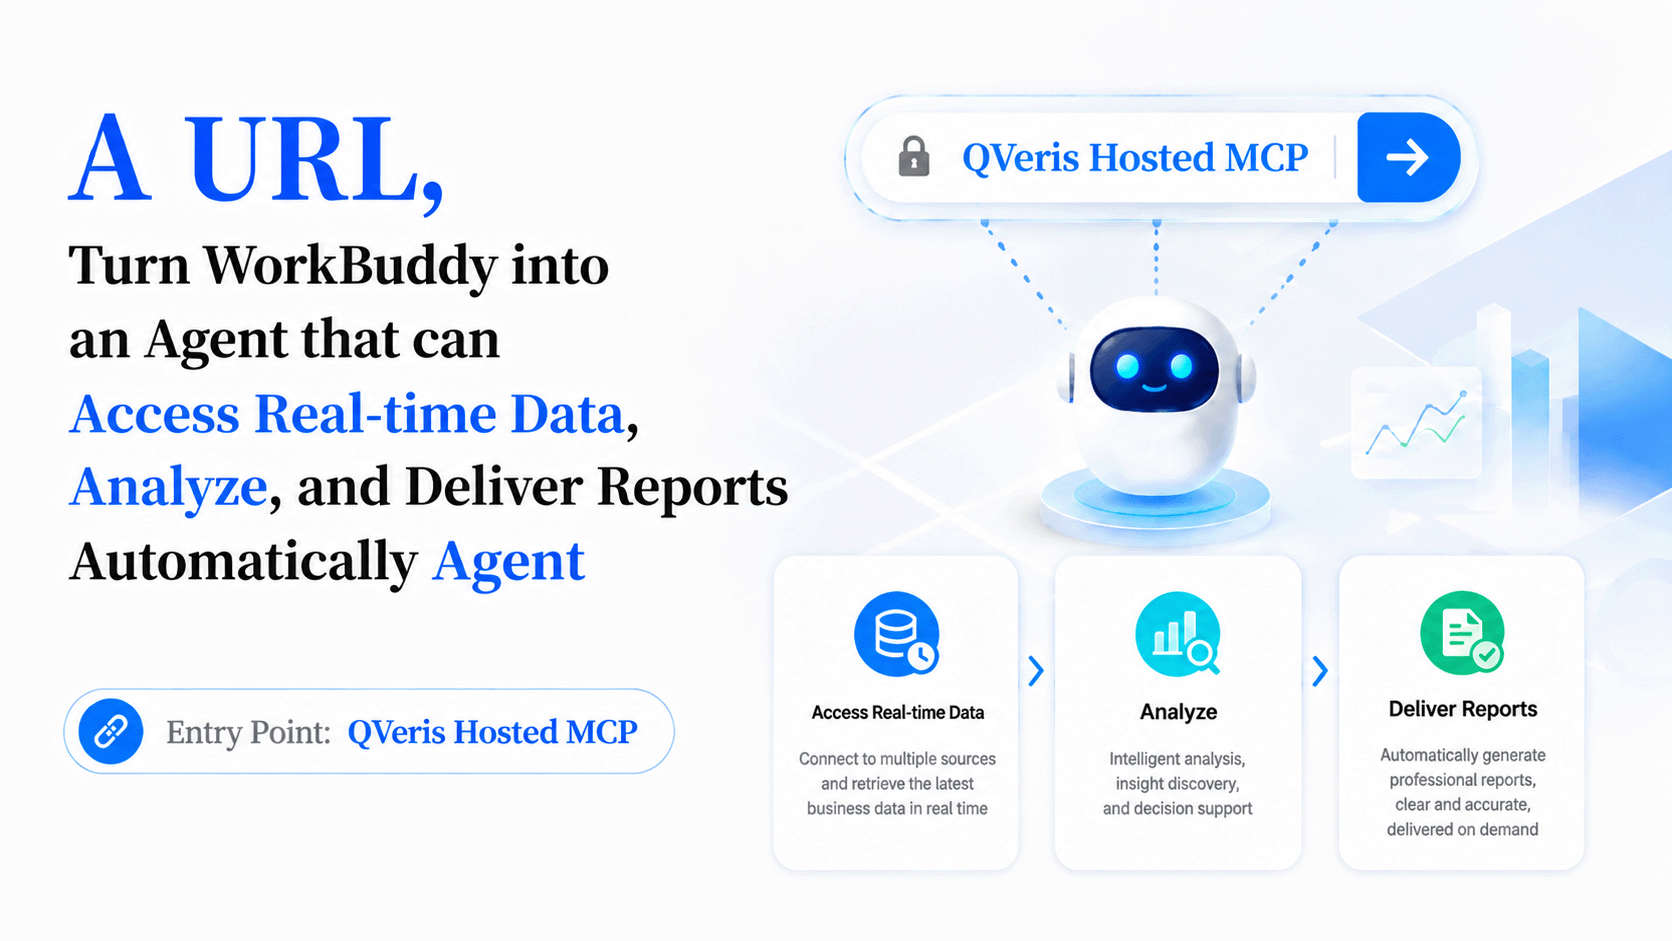
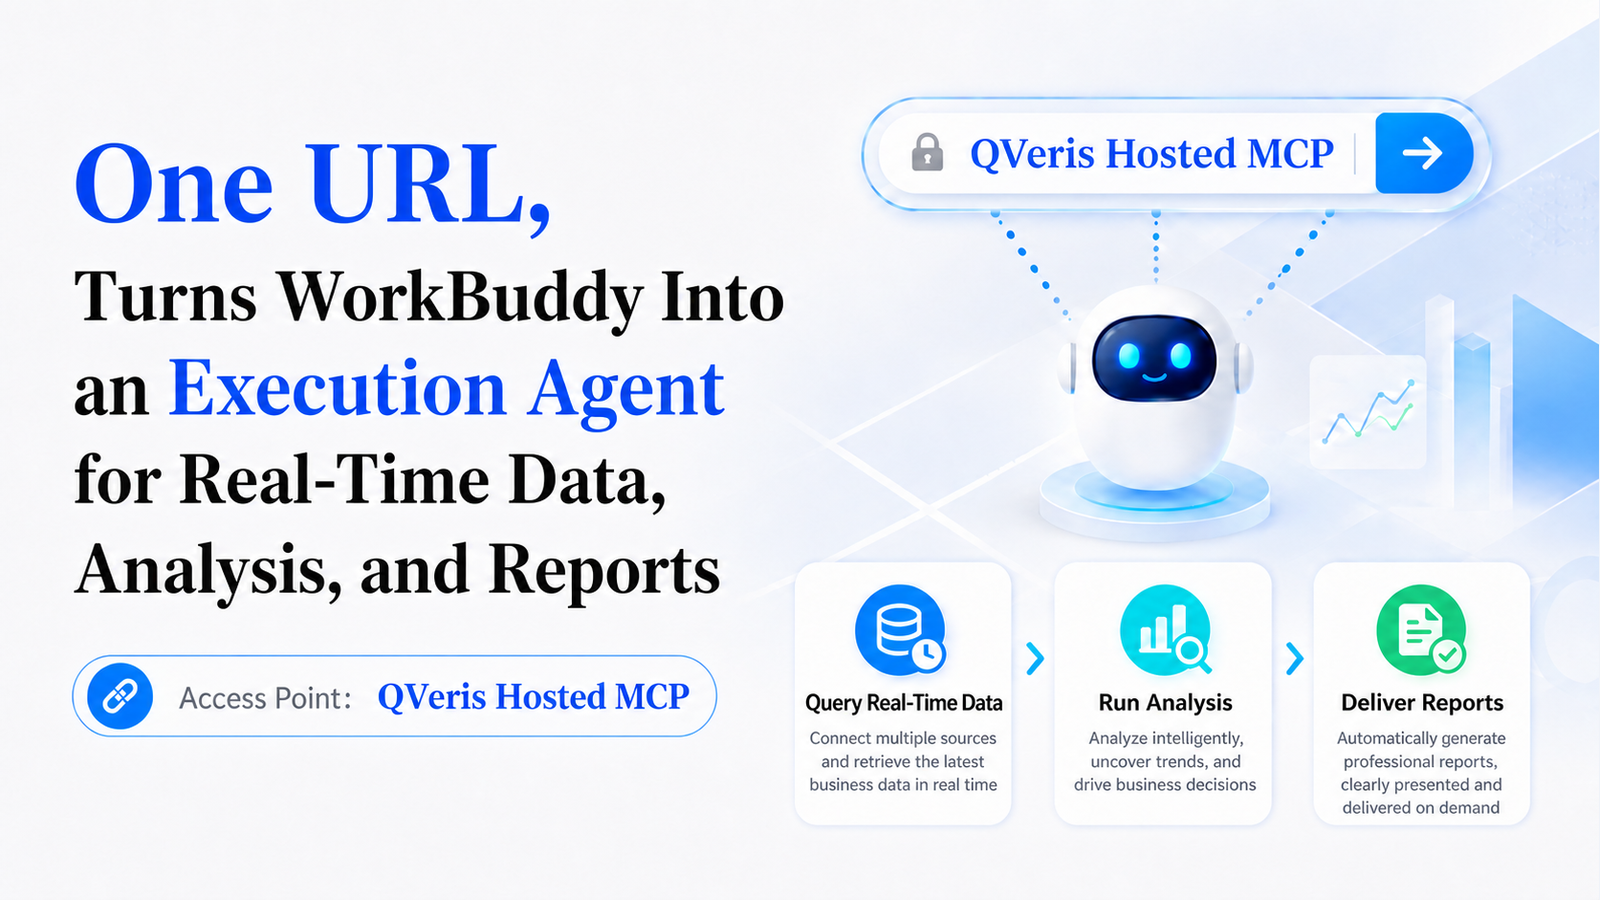
docs(blog): update blog content 2026-08-08 09:46:59Z

diff --git a/src/content/blog/en/workbuddy-qveris-hosted-mcp.md b/src/content/blog/en/workbuddy-qveris-hosted-mcp.md
@@ -1,11 +1,20 @@
 ---
-title: One URL Turns WorkBuddy into an Execution Agent That Queries Live Data, Runs Analysis, and Delivers Reports
-description: With just a URL and an API key—no server to deploy, no code to write—WorkBuddy can tap into 10,000+ external capabilities to retrieve real-time information, analyze markets and competitors, process PDF/OCR, and automatically produce reports, Excel files, and PPTs.
+title: One URL Turns WorkBuddy into an Execution Agent That Queries Live Data, Runs
+  Analysis, and Delivers Reports
+description: With just a URL and an API key—no server to deploy, no code to write—WorkBuddy
+  can tap into 10,000+ external capabilities to retrieve real-time information, analyze
+  markets and competitors, process PDF/OCR, and automatically produce reports, Excel
+  files, and PPTs.
 pubDate: Aug 6 2026
 heroImage: ../../../assets/blog-workbuddy-qveris-hosted-mcp-cover-en.png
 category: Engineering
 author: QVeris Team
-tags: ['workbuddy', 'mcp', 'qveris', 'tutorial', 'agent']
+tags:
+- workbuddy
+- mcp
+- qveris
+- tutorial
+- agent
 translationKey: workbuddy-qveris-hosted-mcp
 ---
 **A Hands-On Guide to MCP Integration**

diff --git a/src/content/blog/cn/qveris-unitree-ipo.md b/src/content/blog/cn/qveris-unitree-ipo.md
@@ -2,13 +2,13 @@
 title: 拆解宇树IPO：QVeris发现了什么？
 description: 150.80 元发行价、219.23 倍市盈率背后，QVeris 从招股书、财务附注与上交所公告中拆解宇树 IPO：增长来自哪里，高估值又在提前定价什么。
 pubDate: Aug 08 2026
-heroImage: ../../../assets/blog-qveris-unitree-ipo-1.png
+heroImage: ../../../assets/blog-qveris-unitree-ipo-cover-cn.png
 category: Research
 author: QVeris Team
 tags:
-  - Agent
-  - Finance
-  - QVeris
+- Agent
+- Finance
+- QVeris
 translationKey: qveris-unitree-ipo
 ---
 # 拆解宇树IPO：QVeris发现了什么？
